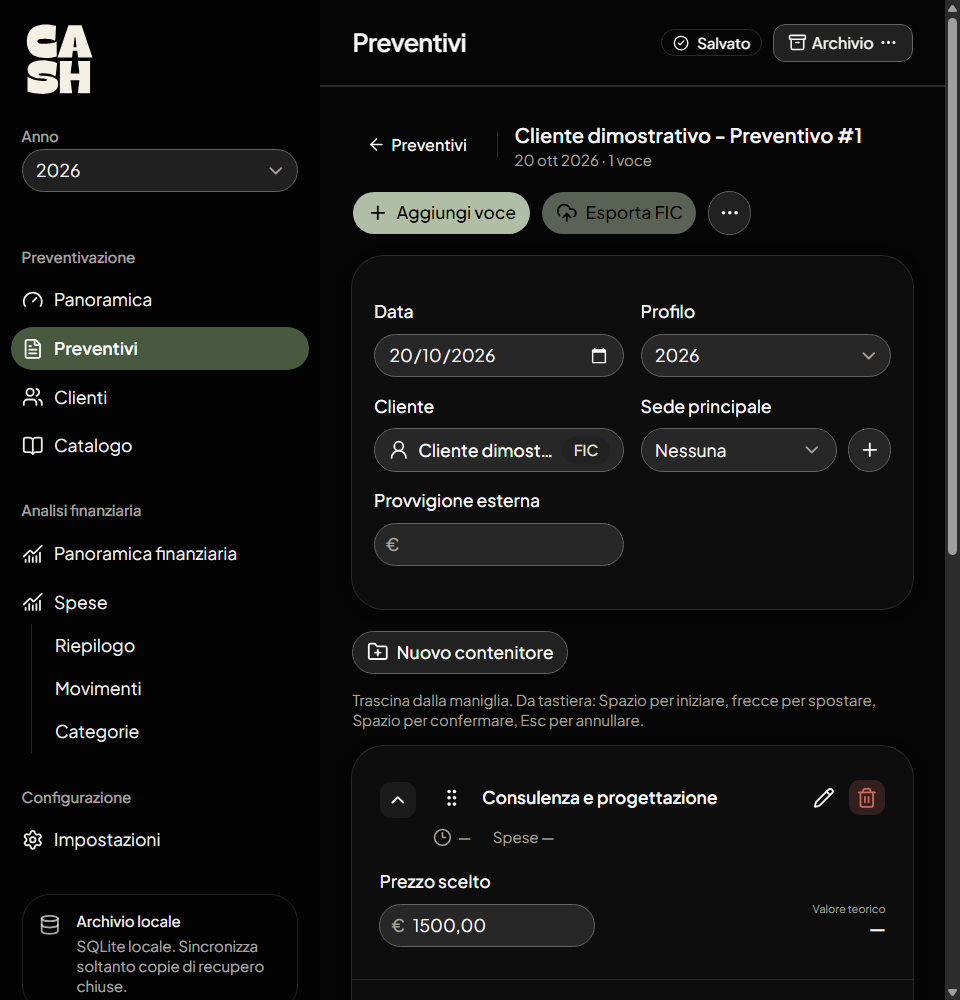
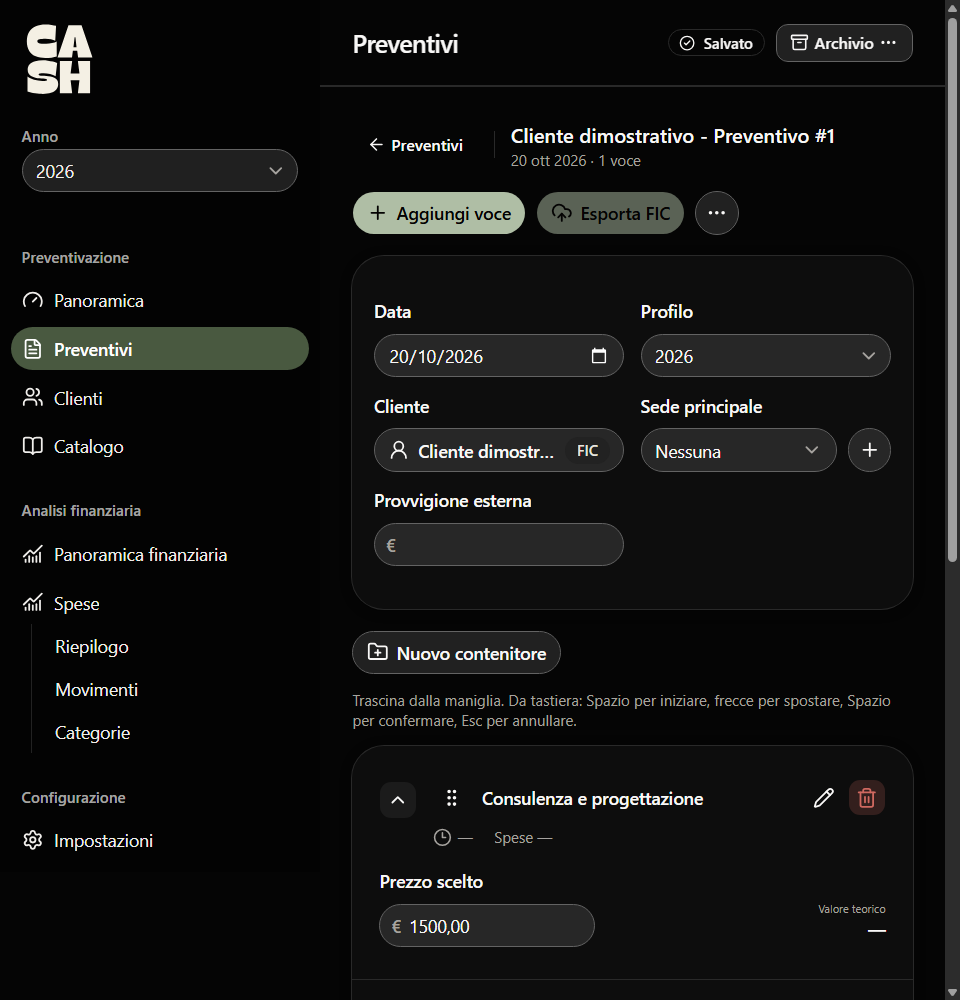
style(ui): compact dashboard and use native Windows typography

diff --git a/src/renderer/views/DashboardView.tsx b/src/renderer/views/DashboardView.tsx
@@ -96,8 +96,8 @@ export function DashboardView({
 
   return (
     <div className="min-w-0 space-y-5">
-      <Card className="dashboard-hero dashboard-enter [--card-spacing:--spacing(6)] xl:[--card-spacing:--spacing(8)]">
-        <CardContent className="grid min-w-0 gap-8 py-3 xl:grid-cols-[minmax(0,1.15fr)_minmax(0,1fr)] xl:items-center xl:gap-10">
+      <Card className="dashboard-hero dashboard-enter [--card-spacing:--spacing(5)] xl:[--card-spacing:--spacing(6)]">
+        <CardContent className="grid min-w-0 gap-6 xl:grid-cols-[minmax(0,1.15fr)_minmax(0,1fr)] xl:items-center xl:gap-8">
           <div className="dashboard-enter dashboard-intro min-w-0">
             <p className="flex items-center gap-2 text-xs font-semibold tracking-widest uppercase">
               <span
@@ -136,7 +136,7 @@ export function DashboardView({
               ) : null}
             </div>
           </div>
-          <div className="dashboard-enter dashboard-value min-w-0 rounded-xl border border-border bg-card/90 p-6 shadow-sm">
+          <div className="dashboard-enter dashboard-value min-w-0 rounded-xl border border-border bg-card/90 p-5 shadow-sm">
             <div className="flex flex-wrap items-center justify-between gap-3">
               <div className="flex items-center gap-1">
                 <p className="text-sm font-medium">Valore orario obiettivo</p>
@@ -161,7 +161,7 @@ export function DashboardView({
               </div>
               <Badge variant="secondary">{year}</Badge>
             </div>
-            <p className="mt-5 flex flex-wrap items-baseline gap-x-3 gap-y-1 tabular-nums">
+            <p className="mt-3 flex flex-wrap items-baseline gap-x-3 gap-y-1 tabular-nums">
               <span className="min-w-0 text-4xl font-semibold tracking-tight break-all 2xl:text-5xl">
                 {values ? formatNumber(values.hourlyTarget, 2) : '—'}
               </span>
@@ -174,7 +174,7 @@ export function DashboardView({
                 {unavailableNote}
               </p>
             ) : null}
-            <div className="mt-5 flex flex-wrap items-center justify-between gap-3 border-t pt-4">
+            <div className="mt-4 flex flex-wrap items-center justify-between gap-3 border-t pt-3">
               <span className="flex items-center gap-2 text-xs font-medium">
                 {values ? (
                   <CheckCircle2
@@ -214,26 +214,29 @@ export function DashboardView({
           icon={CheckCircle2}
           label="Netto fiscale stimato"
           value={eur(values?.fiscalNet)}
-          note={
+          help={
             values?.fiscalNet !== undefined
               ? 'Stima interna non contabile'
-              : values
-                ? 'Proiezione fiscale non disponibile'
-                : undefined
+              : undefined
+          }
+          note={
+            values && values.fiscalNet === undefined
+              ? 'Proiezione fiscale non disponibile'
+              : undefined
           }
         />
         <Metric
           icon={Clock3}
           label="Capacità cliente"
           value={values ? hours(values.availableClientMinutes) : '—'}
-          note={
+          help={
             values ? `${values.availableDays} giorni disponibili` : undefined
           }
         />
       </div>
 
-      <div className="grid gap-4 xl:grid-cols-[minmax(0,1.55fr)_minmax(320px,.65fr)]">
-        <Card className="min-w-0 [--card-spacing:--spacing(5)]">
+      <div className="grid items-start gap-4 xl:grid-cols-[minmax(0,1.55fr)_minmax(320px,.65fr)]">
+        <Card className="min-w-0">
           <CardHeader>
             <div>
               <CardTitle>Preventivi recenti</CardTitle>
@@ -285,7 +288,7 @@ export function DashboardView({
                 </TableBody>
               </Table>
             ) : (
-              <div className="grid min-h-60 place-items-center rounded-lg border border-dashed bg-muted/30 p-6 text-center">
+              <div className="grid min-h-44 place-items-center rounded-lg border border-dashed bg-muted/30 p-5 text-center">
                 <div className="max-w-sm">
                   <span className="mx-auto mb-4 grid size-11 place-items-center rounded-lg bg-secondary text-secondary-foreground">
                     <FileText className="size-5" aria-hidden="true" />
@@ -301,7 +304,7 @@ export function DashboardView({
         </Card>
 
         <div className="space-y-4">
-          <Card className="[--card-spacing:--spacing(5)]">
+          <Card>
             <CardHeader>
               <div>
                 <CardTitle className="flex flex-wrap items-center gap-2">
@@ -377,18 +380,37 @@ function Metric({
   label,
   value,
   note,
+  help,
 }: {
   icon: typeof Clock3;
   label: string;
   value: string;
   note?: string;
+  help?: string;
 }) {
+  const helpId = useId();
   return (
-    <Card className="dashboard-enter min-w-0 gap-3 transition-colors duration-200 hover:bg-secondary/20 hover:ring-primary/40 [--card-spacing:--spacing(5)]">
-      <CardHeader className="gap-4">
-        <div className="flex min-h-9 items-center justify-between gap-3">
-          <CardTitle className="text-sm">{label}</CardTitle>
-          <span className="grid size-9 shrink-0 place-items-center rounded-lg bg-secondary text-secondary-foreground">
+    <Card className="dashboard-enter min-w-0 gap-2 transition-colors duration-200 hover:bg-secondary/20 hover:ring-primary/40">
+      <CardHeader className="gap-2">
+        <div className="flex min-h-8 items-center justify-between gap-3">
+          <CardTitle className="text-sm">
+            {help ? (
+              <Tooltip>
+                <TooltipTrigger
+                  aria-describedby={helpId}
+                  className="cursor-help rounded-sm text-left underline decoration-muted-foreground/50 decoration-dotted underline-offset-4 focus-visible:outline-2 focus-visible:outline-offset-4 focus-visible:outline-ring"
+                >
+                  {label}
+                </TooltipTrigger>
+                <TooltipContent id={helpId} role="tooltip">
+                  {help}
+                </TooltipContent>
+              </Tooltip>
+            ) : (
+              label
+            )}
+          </CardTitle>
+          <span className="grid size-8 shrink-0 place-items-center rounded-lg bg-secondary text-secondary-foreground">
             <Icon className="size-4" aria-hidden="true" />
           </span>
         </div>

diff --git a/tests/fixtures/ui-interactions.tsx b/tests/fixtures/ui-interactions.tsx
@@ -269,7 +269,24 @@ export async function runUiChecks() {
     await act(async () => {
       clients.resolve(ok({ clients: [client], page: 1 }));
     });
-    await click(find('[aria-label="Apri dettagli di Cliente di prova"]'));
+    await click(find('[aria-label="Azioni per Cliente di prova"]'));
+    const clientActions = [
+      ...document.querySelectorAll<HTMLElement>('[role="menuitem"]'),
+    ];
+    check(
+      clientActions.length === 2 &&
+        clientActions.every((item) => item.querySelector('svg')),
+      'Both client actions must have an icon',
+    );
+    check(
+      clientActions[1]!.textContent?.trim() === 'Aggiungi una sede',
+      'Client site action label unclear',
+    );
+    check(
+      clientActions[0]!.textContent?.trim() === 'Apri scheda cliente',
+      'Client details action label unclear',
+    );
+    await click(clientActions[0]!);
     check(
       document.querySelectorAll('[data-slot=skeleton]').length === 12,
       'Client detail skeleton missing',
@@ -729,10 +746,12 @@ export async function runUiChecks() {
     await render(null);
     results.push('navigation');
 
+    const helpDoc = structuredClone(doc);
+    helpDoc.profiles[0]!.confirmed = true;
     await render(
       <TooltipProvider>
         <DashboardView
-          doc={doc}
+          doc={helpDoc}
           year={2026}
           appState={appState}
           onEditProfile={() => {}}
@@ -744,13 +763,17 @@ export async function runUiChecks() {
     );
     for (const [label, explanation] of [
       ['Come interpretare il valore orario', 'non una tariffa obbligatoria'],
+      ['Netto fiscale stimato', 'Stima interna non contabile'],
+      ['Capacità cliente', 'giorni disponibili'],
       ['Come leggere il flusso delle spese', 'Più categorie'],
       [
         'Perché i totali delle categorie non sono sommabili',
         'superare il 100%',
       ],
     ] as const) {
-      const trigger = find(`button[aria-label="${label}"]`);
+      const trigger =
+        document.querySelector<HTMLElement>(`button[aria-label="${label}"]`) ??
+        button(label);
       await act(async () => trigger.focus());
       // Base UI opens on keyboard focus and positions the popup asynchronously.
       await act(async () => {

diff --git a/src/renderer/views/ClientsView.tsx b/src/renderer/views/ClientsView.tsx
@@ -4,11 +4,13 @@ import {
   ArrowRight,
   Building2,
   Cloud,
+  MapPinPlus,
   MoreHorizontal,
   Plus,
   RefreshCw,
   Search,
   Users,
+  UserRound,
 } from 'lucide-react';
 import {
   useEffect,
@@ -259,8 +261,7 @@ export function ClientsView({
           <div>
             <CardTitle>Clienti</CardTitle>
             <CardDescription>
-              Anagrafica corrente recuperata dall’azienda Fatture in Cloud
-              collegata.
+              Clienti dell’azienda collegata a Fatture in Cloud.
             </CardDescription>
           </div>
           <CardAction className="flex flex-wrap gap-2">
@@ -416,17 +417,21 @@ export function ClientsView({
                               >
                                 <MoreHorizontal />
                               </DropdownMenuTrigger>
-                              <DropdownMenuContent align="end">
+                              <DropdownMenuContent
+                                align="end"
+                                className="min-w-52"
+                              >
                                 <DropdownMenuItem
                                   onClick={() => void openDetails(client)}
                                 >
-                                  Visualizza dettagli
+                                  <UserRound aria-hidden="true" />
+                                  Apri scheda cliente
                                 </DropdownMenuItem>
                                 <DropdownMenuItem
                                   onClick={() => setSiteEditor({ client })}
                                 >
-                                  <Plus />
-                                  Aggiungi sede
+                                  <MapPinPlus aria-hidden="true" />
+                                  Aggiungi una sede
                                 </DropdownMenuItem>
                               </DropdownMenuContent>
                             </DropdownMenu>

diff --git a/src/renderer/components/Layout.tsx b/src/renderer/components/Layout.tsx
@@ -6,7 +6,6 @@ import {
   CheckCircle2,
   CircleAlert,
   CloudCog,
-  Database,
   FileText,
   Gauge,
   LoaderCircle,
@@ -60,7 +59,6 @@ import { Separator } from '@/components/ui/separator';
 import {
   Sidebar,
   SidebarContent,
-  SidebarFooter,
   SidebarGroup,
   SidebarGroupContent,
   SidebarGroupLabel,
@@ -393,19 +391,6 @@ export function AppShell({
             </SidebarGroup>
           ))}
         </SidebarContent>
-        <SidebarFooter className="p-4">
-          <div className="flex gap-3 rounded-lg border border-sidebar-border p-3 text-xs text-sidebar-foreground/70">
-            <Database className="mt-0.5 size-4 shrink-0" />
-            <div>
-              <strong className="font-medium text-sidebar-foreground">
-                Archivio locale
-              </strong>
-              <p className="mt-1">
-                SQLite locale. Sincronizza soltanto copie di recupero chiuse.
-              </p>
-            </div>
-          </div>
-        </SidebarFooter>
       </Sidebar>
       <SidebarInset className="min-w-0">
         <header className="sticky top-0 z-20 flex min-h-16 flex-wrap items-center justify-between gap-3 border-b bg-background/95 px-6 py-3 backdrop-blur 2xl:px-8">

diff --git a/src/renderer/styles.css b/src/renderer/styles.css
@@ -147,7 +147,7 @@
   --sidebar-accent-foreground: oklch(0 0 0);
   --sidebar-border: oklch(0.9401 0 0);
   --sidebar-ring: oklch(0.783 0.0384 132.737);
-  --font-sans: Plus Jakarta Sans, sans-serif;
+  --font-sans: 'Segoe UI', system-ui, sans-serif;
   --font-serif: Lora, serif;
   --font-mono: IBM Plex Mono, monospace;
   --shadow-color: #000000;
@@ -209,7 +209,7 @@
   --sidebar-accent-foreground: oklch(1 0 0);
   --sidebar-border: oklch(0.2513 0 0);
   --sidebar-ring: oklch(0.783 0.0384 132.737);
-  --font-sans: Plus Jakarta Sans, sans-serif;
+  --font-sans: 'Segoe UI', system-ui, sans-serif;
   --font-serif: Lora, serif;
   --font-mono: IBM Plex Mono, monospace;
   --shadow-color: #000000;

diff --git a/docs/issue-83-verifica.md b/docs/issue-83-verifica.md
@@ -10,17 +10,24 @@ l'archivio personale né chiamano servizi esterni.
 - Sidebar: distanza tra le voci, hover neutro, selezione con sfondo Moss e
   focus visibile. La sezione Spese evidenzia il padre con il peso del
   testo e l'icona; solo la pagina corrente ha lo sfondo selezionato e
-  `aria-current="page"`. Nessuna modifica ai primitivi condivisi.
+  `aria-current="page"`. Rimossa la card Archivio locale. Nessuna modifica ai
+  primitivi condivisi.
 - Panoramica: hero più breve, aiuto sul valore orario, meno ripetizioni del
   profilo, nessun alert permanente quando la configurazione è completa.
-  Restano avvisi, azioni per profili incompleti e note fiscali.
+  KPI e hero compattati, card Preventivi recenti alta quanto il contenuto.
+  Giorni disponibili e «Stima interna non contabile» sono tooltip dei titoli,
+  accessibili anche da tastiera. Restano visibili gli avvisi e le azioni per
+  profili incompleti o proiezioni fiscali non disponibili.
+- Clienti: menu con icone per entrambe le azioni, «Apri scheda cliente» e
+  «Aggiungi una sede», e larghezza sufficiente a leggerle su una riga.
 - Intestazioni e lista preventivi: rimosse le descrizioni ripetitive.
 - Spese: spiegazioni del conteggio unico e delle assegnazioni multiple nei
   tooltip; l'avvertenza sui totali non sommabili resta visibile.
 - Da incassare: due indicatori distinti per fatture aperte e scadute, con
   etichette e icona, singolare/plurale, zero e dati mancanti. Importi e calcoli
   invariati; testo e numeri lunghi possono andare a capo.
-- Font, token Moss, glow e ingresso della panoramica conservati. I nuovi aiuti
+- Font dell'interfaccia Segoe UI, nativo Windows, con fallback di sistema.
+  Token Moss, glow e ingresso della panoramica conservati. I nuovi aiuti
   rispettano il movimento ridotto e hanno associazioni ARIA esplicite.
 
 ## Confronti prima/dopo
@@ -41,8 +48,9 @@ l'archivio personale né chiamano servizi esterni.
   finanziaria, Spese/Riepilogo e Spese/Categorie in entrambi i temi, a 1440 px e
   a 960 px con testo al 125% (dimensione radice 20 px). Nessun overflow
   orizzontale della pagina a 960 px; tabelle e Sankey mantengono lo scorrimento
-  interno previsto. Una sola voce con `aria-current` per vista.
-- Tab raggiunge tutti e tre i nuovi aiuti con focus visibile; testo del
+  interno previsto. Verificati anche lista e menu Clienti con il nuovo font.
+  Una sola voce con `aria-current` per vista.
+- Tab raggiunge tutti e cinque i nuovi aiuti con focus visibile; testo del
   tooltip associato con `aria-describedby` e `role="tooltip"`. Escape e
   passaggio al controllo successivo verificati in Electron.
 - `prefers-reduced-motion: reduce`: nessuna animazione attiva nelle tre viste
@@ -58,6 +66,9 @@ l'archivio personale né chiamano servizi esterni.
 - Prettier sui file modificati e `git diff --check`: superati.
 
 Ulteriori evidenze: [aiuto valore orario da tastiera](images/issue-83/after/hourly-help-keyboard.png),
+[giorni disponibili da tastiera](images/issue-83/after/capacity-help-keyboard.png),
+[nota fiscale da tastiera](images/issue-83/after/fiscal-help-keyboard.png),
+[menu clienti](images/issue-83/after/clients-menu-light.png),
 [aiuto categorie da tastiera](images/issue-83/after/categories-help-keyboard.png),
 [indicatori con testo ingrandito](images/issue-83/after/financial-narrow-light.png),
 [dettaglio preventivo con testo ingrandito](images/issue-83/after/quote-detail-narrow-dark.png),
